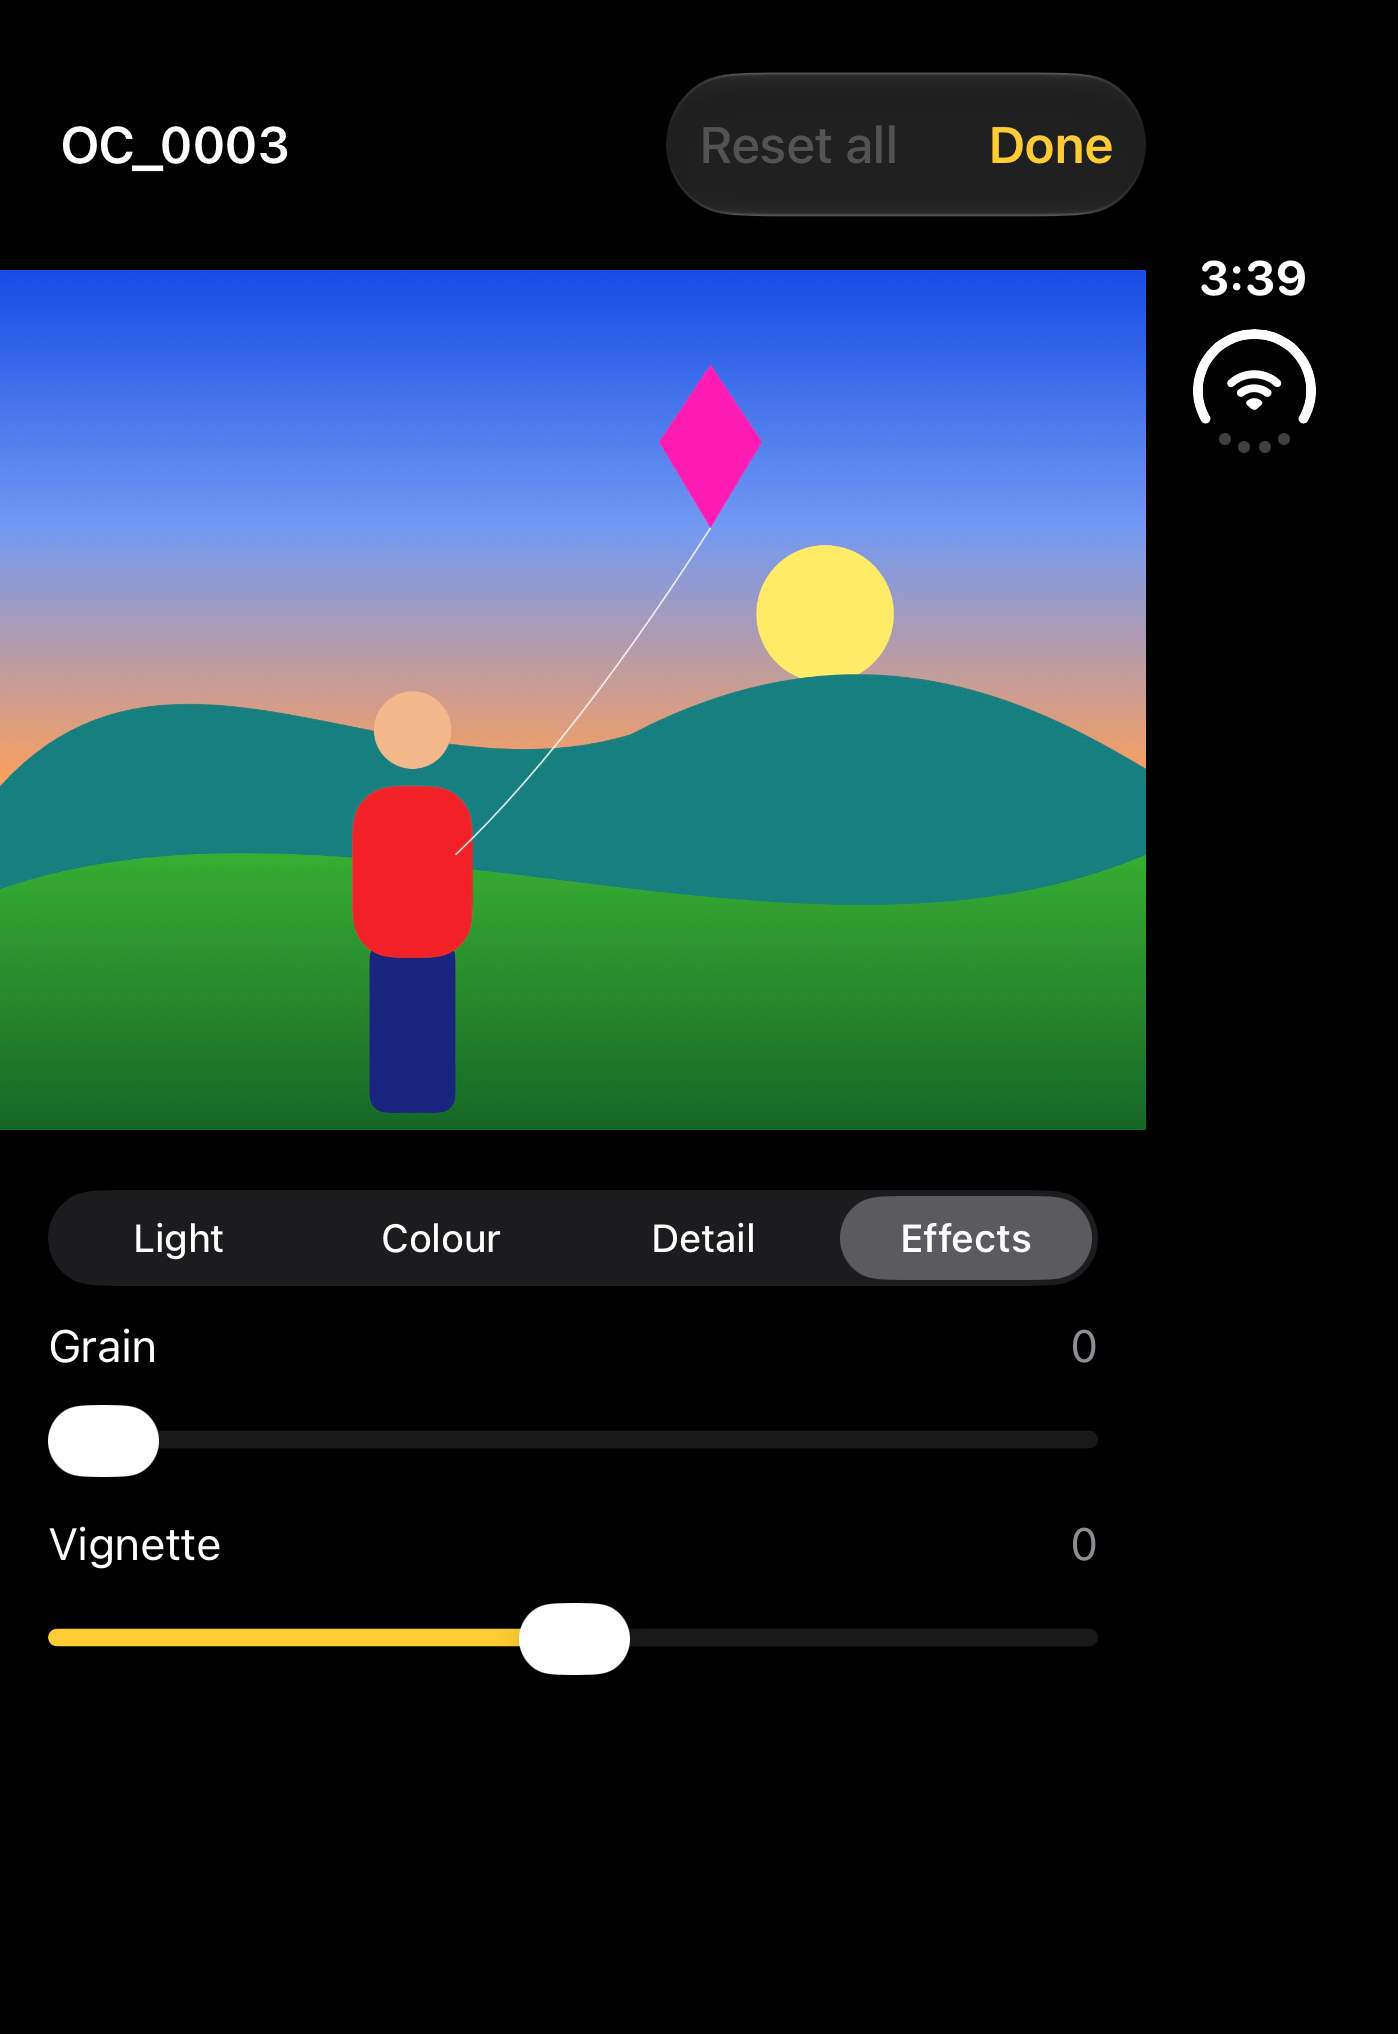
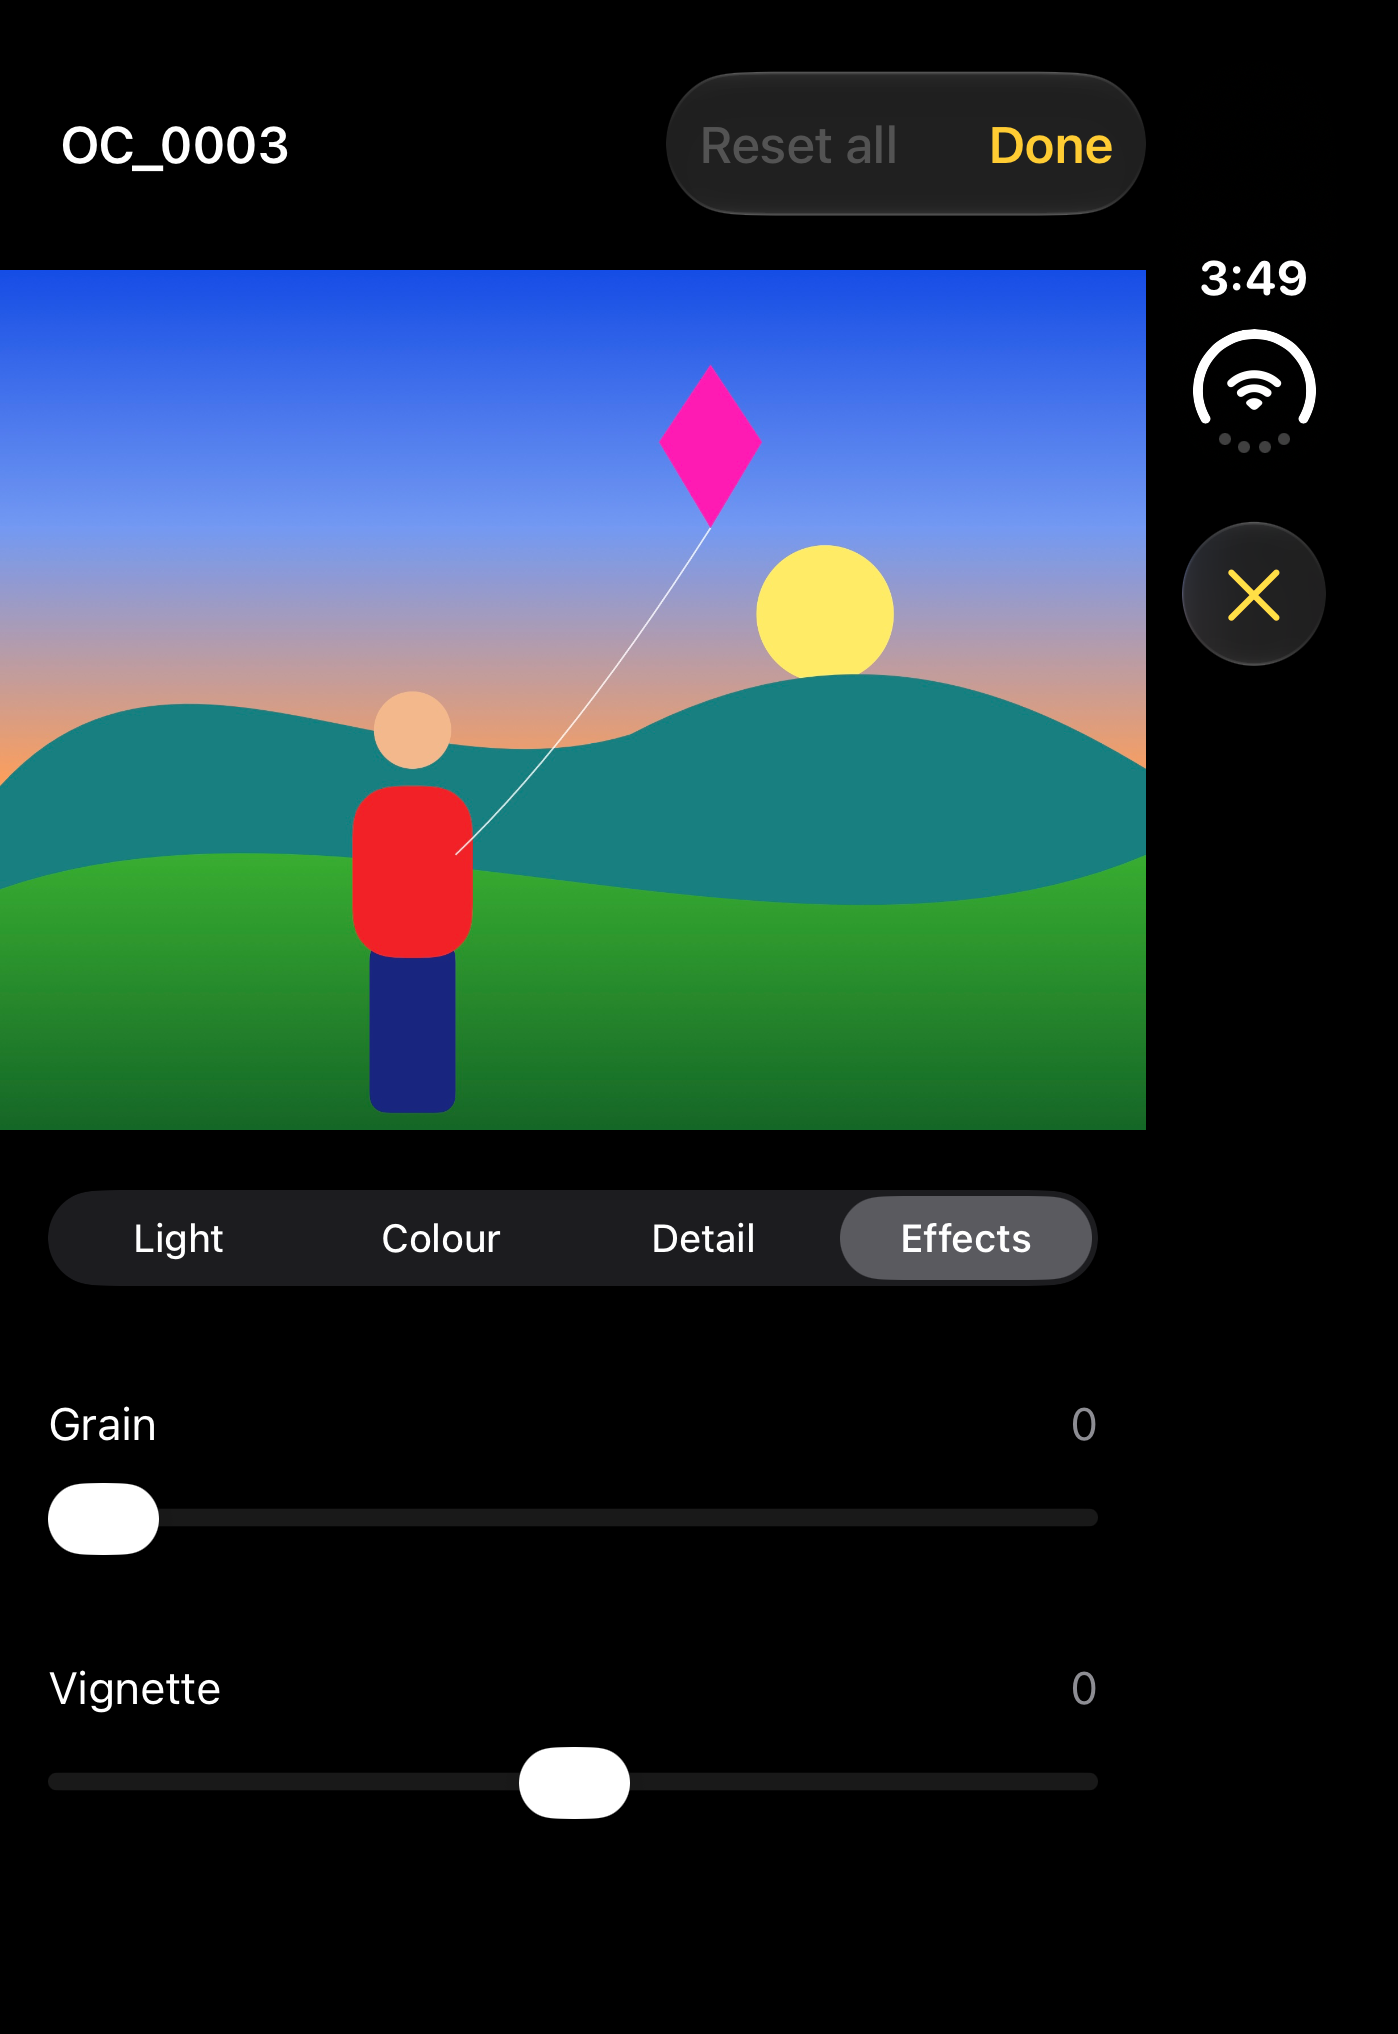
fix: centre the editor sliders on zero, ask before discarding changes, release the editor on leave

Changed region(s): [[0.0308, 0.6504, 0.7997, 0.8982], [0.8305, 0.2478, 0.9535, 0.3407], [0.892, 0.1239, 0.9227, 0.1549]]

diff --git a/OpenCam/UI/Editor/EditorModel.swift b/OpenCam/UI/Editor/EditorModel.swift
@@ -17,6 +17,8 @@ import OSLog
     /// Used by the Looks group (Task 8).
     private let lookStore: LookStore
     private let renderer: LookRenderer
+    /// The preview render; `renderer.renderedCGImage` unless a test replaces it.
+    private let renderPreview: @Sendable (CIImage, Adjustments) async -> CGImage?
 
     var adjustments = Adjustments() {
         didSet { if adjustments != oldValue { requestRender() } }
@@ -43,15 +45,24 @@ import OSLog
     private var renderTask: Task<Void, Never>?
     private var shownGeneration = 0
 
-    init(item: LibraryItem, edits: EditStore, looks: LookStore, group: EditorGroup = .light, renderer: LookRenderer = .shared) {
+    /// `renderPreview` is a test seam for a render that fails; the app never passes it.
+    init(item: LibraryItem, edits: EditStore, looks: LookStore, group: EditorGroup = .light, renderer: LookRenderer = .shared,
+         renderPreview: (@Sendable (CIImage, Adjustments) async -> CGImage?)? = nil) {
         self.item = item
         self.edits = edits
         self.lookStore = looks
         self.group = group
         self.renderer = renderer
+        self.renderPreview = renderPreview ?? { image, adjustments in await renderer.renderedCGImage(image, adjustments: adjustments) }
     }
 
     var hasChanges: Bool { adjustments != savedEdit.adjustments || lookName != savedEdit.lookName }
+
+    /// Changes that leaving without Done would lose. A photo that cannot be edited (any failed phase) has none to lose.
+    var hasUnsavedChanges: Bool {
+        if case .failed = phase { return false }
+        return hasChanges
+    }
 
     /// Reads the edit (an unreadable one counts as none), decodes the proxy off the main actor and renders the first preview.
     /// An edit from a newer version leaves the photo read-only and decodes nothing.
@@ -89,6 +100,11 @@ import OSLog
         original = unedited
         requestRender()
         await waitForPreview()
+        guard preview != nil else {
+            // The render already logged why; without a first picture the photo cannot be edited.
+            phase = .failed(LibraryCopy.cannotOpen)
+            return
+        }
         phase = .ready
     }
 
@@ -142,7 +158,7 @@ import OSLog
     private func runRenders(from first: (generation: Int, value: Adjustments)) async {
         var job: (generation: Int, value: Adjustments)? = first
         while let current = job {
-            if let proxy, let image = await renderer.renderedCGImage(proxy, adjustments: current.value) {
+            if let proxy, let image = await renderPreview(proxy, current.value) {
                 show(image, adjustments: current.value, generation: current.generation)
             } else {
                 Self.logger.error("[EditorModel:runRenders] The preview could not be rendered — {stem: \(self.item.stem, privacy: .public)}")

diff --git a/OpenCamTests/EditorModelTests.swift b/OpenCamTests/EditorModelTests.swift
@@ -57,4 +57,32 @@ import Testing
         #expect(model.phase == .failed("This photo was edited by a newer version of OpenCam."))
         #expect(!model.save()); #expect(try Data(contentsOf: editURL) == newer)
     }
+    @Test func firstRenderThatFailsSaysCannotOpen() async throws {
+        let dir = try TestFiles.directory()
+        _ = try TestFiles.writeJPEG(width: 400, height: 300, rgb: SIMD3(0.5, 0.5, 0.5), to: dir.appending(path: "OC_0001.JPG"))
+        let model = EditorModel(item: try #require(LibraryScanner.items(in: dir).first), edits: EditStore(directory: dir),
+                                looks: try LookStore(directory: TestFiles.directory()), renderPreview: { _, _ in nil })
+        await model.load()
+        #expect(model.phase == .failed("This photo could not be opened.")); #expect(model.preview == nil)
+    }
+    @Test func unsavedChangesFollowTheOpeningValues() async throws {
+        let dir = try TestFiles.directory()
+        _ = try TestFiles.writeJPEG(width: 400, height: 300, rgb: SIMD3(0.5, 0.5, 0.5), to: dir.appending(path: "OC_0001.JPG"))
+        try EditStore(directory: dir).save(PhotoEdit(adjustments: Adjustments().setting(.contrast, to: 25)), stem: "OC_0001")
+        let model = EditorModel(item: try #require(LibraryScanner.items(in: dir).first), edits: EditStore(directory: dir), looks: try LookStore(directory: TestFiles.directory()))
+        await model.load()
+        #expect(!model.hasUnsavedChanges)                                   // unchanged
+        model.adjustments.contrast = 40; #expect(model.hasUnsavedChanges)   // changed
+        model.adjustments.contrast = 25; #expect(!model.hasUnsavedChanges)  // back to the opening value
+        model.resetAll(); #expect(model.hasUnsavedChanges)                  // the opening edit was not empty
+    }
+    @Test func newerVersionEditHasNoUnsavedChanges() async throws {
+        let dir = try TestFiles.directory()
+        _ = try TestFiles.writeJPEG(width: 400, height: 300, rgb: SIMD3(0.5, 0.5, 0.5), to: dir.appending(path: "OC_0001.JPG"))
+        try Data(#"{"version": 99, "adjustments": {"exposure": 1}}"#.utf8).write(to: dir.appending(path: "OC_0001.edit.json"))
+        let model = EditorModel(item: try #require(LibraryScanner.items(in: dir).first), edits: EditStore(directory: dir), looks: try LookStore(directory: TestFiles.directory()))
+        await model.load()
+        #expect(!model.hasUnsavedChanges)
+        model.adjustments.exposure = 2; #expect(!model.hasUnsavedChanges)   // read-only: nothing can be saved, so nothing is lost
+    }
 }

diff --git a/OpenCam/UI/Editor/EditorView.swift b/OpenCam/UI/Editor/EditorView.swift
@@ -7,6 +7,7 @@ struct EditorView: View {
 
     @Environment(\.horizontalSizeClass) private var horizontalSizeClass
     @Environment(\.verticalSizeClass) private var verticalSizeClass
+    @State private var isConfirmingDiscard = false
 
     /// Stacked, the picture never takes so much height that less than this is left for the panel.
     private static let minPanelHeight: CGFloat = 240
@@ -21,8 +22,14 @@ struct EditorView: View {
         layout
             .navigationTitle(model.item.stem)
             .navigationBarTitleDisplayMode(.inline)
+            // SwiftUI cannot ask before the system back control or swipe pops, so both are replaced by a system cancel
+            // button that asks first when changes would be lost. Hiding the back control also turns off the back swipe.
             .navigationBarBackButtonHidden()
             .toolbar { toolbar }
+            .confirmationDialog("Discard changes?", isPresented: $isConfirmingDiscard, titleVisibility: .visible) {
+                Button("Discard changes", role: .destructive, action: onDone)
+                Button("Keep editing", role: .cancel) {}
+            }
             .task {
                 guard model.phase == .loading else { return }
                 await model.load()
@@ -53,6 +60,9 @@ struct EditorView: View {
 
     @ToolbarContentBuilder
     private var toolbar: some ToolbarContent {
+        ToolbarItem(placement: .cancellationAction) {
+            Button(role: .cancel, action: leave)
+        }
         ToolbarItem(placement: .topBarTrailing) {
             Button("Reset all", action: model.resetAll)
                 .disabled(isFailed || (model.adjustments.isIdentity && model.lookName == nil))
@@ -65,6 +75,11 @@ struct EditorView: View {
     /// A failed photo closes without saving, so it never traps the person; otherwise the edit is saved first.
     private func done() {
         if isFailed || model.save() { onDone() }
+    }
+
+    /// Leaves without saving, asking first when changes would be lost.
+    private func leave() {
+        if model.hasUnsavedChanges { isConfirmingDiscard = true } else { onDone() }
     }
 
     /// The picture's fitted height at the full width, held so the panel keeps `minPanelHeight`.

diff --git a/OpenCam/UI/Editor/AdjustmentSlider.swift b/OpenCam/UI/Editor/AdjustmentSlider.swift
@@ -1,6 +1,6 @@
 import SwiftUI
 
-/// One adjustment: its name and value on a row, the system slider below. Double-tapping the name resets it.
+/// One adjustment: its name and value on a row, the system slider below. Double-tapping the row resets it.
 struct AdjustmentSlider: View {
     let key: AdjustmentKey
     @Binding var value: Double
@@ -11,20 +11,29 @@ struct AdjustmentSlider: View {
             HStack(alignment: .firstTextBaseline) {
                 Text(key.title)
                     .frame(maxWidth: .infinity, alignment: .leading)
-                    .contentShape(.rect)
-                    .onTapGesture(count: 2, perform: onReset)
                 Text(key.valueText(value))
                     .monospacedDigit()
                     .foregroundStyle(.secondary)
             }
             .font(.subheadline)
             .lineLimit(1)
+            // The whole row is the reset target, at least 44 pt tall; the text sits at its foot, just above the slider.
+            .frame(minHeight: Theme.Size.minTarget, alignment: .bottom)
+            .contentShape(.rect)
+            .onTapGesture(count: 2, perform: onReset)
             .accessibilityHidden(true)
-            Slider(value: $value, in: key.range, step: key.step)
-                .frame(minHeight: Theme.Size.minTarget)
-                .accessibilityLabel(key.title)
-                .accessibilityValue(key.valueText(value))
-                .accessibilityAction(named: "Reset", onReset)
+            // Zero is "no change": the fill grows from it, so an untouched centred slider shows no fill. The value snaps to
+            // `key.step` in the binding, because a stepped Slider draws a tick mark per step under the track.
+            Slider(value: steppedValue, in: key.range, neutralValue: 0) {
+                Text(key.title)
+            }
+            .frame(minHeight: Theme.Size.minTarget)
+            .accessibilityValue(key.valueText(value))
+            .accessibilityAction(named: "Reset", onReset)
         }
+    }
+
+    private var steppedValue: Binding<Double> {
+        Binding(get: { value }, set: { value = ($0 / key.step).rounded() * key.step })
     }
 }

diff --git a/OpenCam/UI/Library/LibraryView.swift b/OpenCam/UI/Library/LibraryView.swift
@@ -16,8 +16,8 @@ struct LibraryView: View {
     @State private var isConfirmingDelete = false
     @State private var alertTitle: String?
     @State private var pickedItems: [PhotosPickerItem] = []
-    /// The editor of the photo on the navigation path, made when it is pushed so redrawing this view keeps it.
-    @State private var editor: EditorModel?
+    /// The group the next editor opens on: `-editorGroup` for the launch push, Light for a tap.
+    @State private var editorGroup: EditorGroup = .light
 
     private static let columns = [GridItem(.adaptive(minimum: 110), spacing: 2)]
 
@@ -34,9 +34,7 @@ struct LibraryView: View {
                 .navigationBarTitleDisplayMode(.inline)
                 .toolbar { toolbar }
                 .navigationDestination(for: LibraryItem.self) { item in
-                    if let editor, editor.item == item {
-                        EditorView(model: editor) { path.removeAll() }
-                    }
+                    EditorScreen(item: item, library: library, group: editorGroup) { path.removeAll() }
                 }
         }
         .tint(Theme.accent)
@@ -46,7 +44,6 @@ struct LibraryView: View {
         }
         .onChange(of: path) { old, new in
             // Back from the editor: its saved edit changes the thumbnail key, so the cell renders again.
-            // The editor model stays until the next push, so the pop animation still has its view.
             guard new.count < old.count else { return }
             library.reload()
         }
@@ -130,7 +127,7 @@ struct LibraryView: View {
     /// Only photos reach the editor.
     private func openEditor(_ item: LibraryItem, group: EditorGroup) {
         guard item.isEditable else { return }
-        editor = EditorModel(item: item, edits: library.edits, looks: library.lookStore, group: group)
+        editorGroup = group
         path = [item]
     }
 

diff --git a/OpenCam/UI/Editor/EditorScreen.swift b/OpenCam/UI/Editor/EditorScreen.swift
@@ -1,0 +1,17 @@
+import SwiftUI
+
+/// The Library's navigation destination for a photo. It owns the editor's model, so the model survives the destination being
+/// rebuilt and is released, with its proxy and preview, when the editor leaves the navigation stack.
+struct EditorScreen: View {
+    @State private var model: EditorModel
+    let onDone: () -> Void
+
+    init(item: LibraryItem, library: LibraryStore, group: EditorGroup, onDone: @escaping () -> Void) {
+        _model = State(initialValue: EditorModel(item: item, edits: library.edits, looks: library.lookStore, group: group))
+        self.onDone = onDone
+    }
+
+    var body: some View {
+        EditorView(model: model, onDone: onDone)
+    }
+}

diff --git a/OpenCam/UI/Editor/EditorPanel.swift b/OpenCam/UI/Editor/EditorPanel.swift
@@ -18,7 +18,8 @@ struct EditorPanel: View {
             .labelsHidden()
             .padding(.horizontal, Theme.Space.l)
             ScrollView {
-                VStack(spacing: Theme.Space.xs) {
+                // The rows' 44 pt name areas already space them evenly.
+                VStack(spacing: 0) {
                     ForEach(model.group.keys, id: \.self) { key in
                         AdjustmentSlider(key: key, value: $model.adjustments[key]) { model.reset(key) }
                     }
